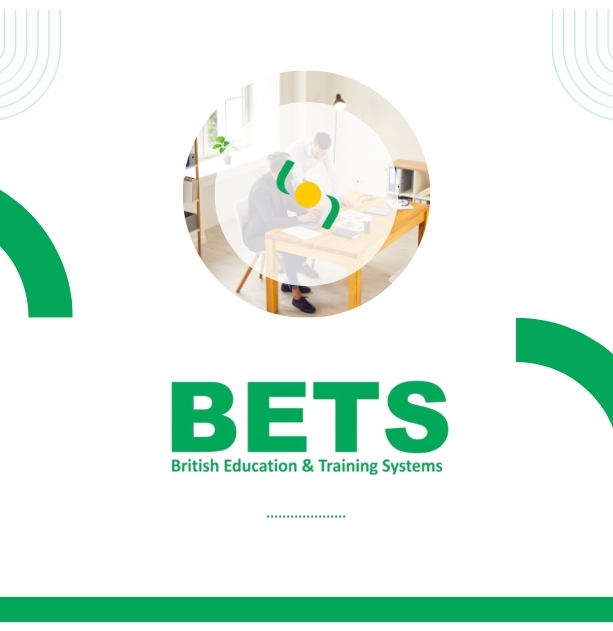
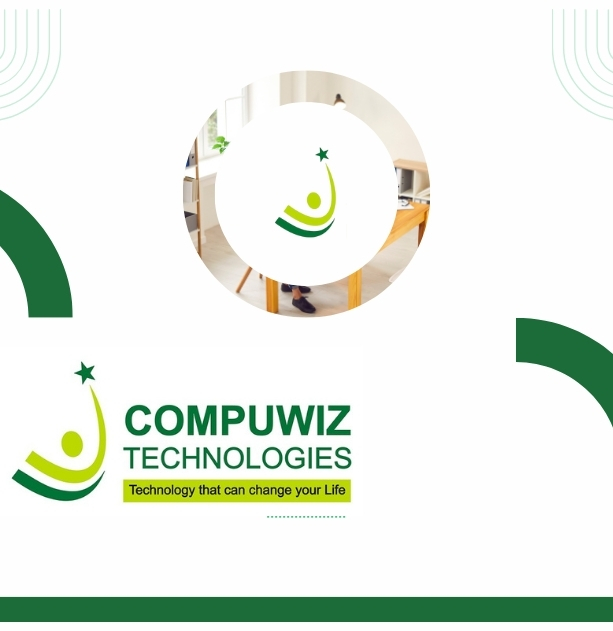
hero about and few sections updated

diff --git a/src/components/departments/DepartmentOne.jsx b/src/components/departments/DepartmentOne.jsx
@@ -1,4 +1,5 @@
 import React from "react";
+import { Code, Layout, Brain, Award } from "lucide-react";
 
 export const DepartmentOne = () => {
   return (
@@ -11,111 +12,73 @@ export const DepartmentOne = () => {
           data-wow-delay="0.2s"
         >
           <p className="td_section_subtitle_up td_fs_18 td_semibold td_spacing_1 td_mb_10 text-uppercase td_accent_color">
-            Departments
+            Our Programs
           </p>
           <h2 className="td_section_title td_fs_48 mb-0">
             Featured CWIZTECH Programs
           </h2>
           <p className="td_section_subtitle td_fs_18 mb-0">
-            Discover top-tier education and training programs at British Education & Training Systems, <br />
-            designed to enhance your skills and career prospects across the UK and beyond.
+            At CWIZTECH, we provide cutting-edge IT training programs designed to boost your skills, 
+            enhance your career, and keep you ahead in today’s digital world.
           </p>
         </div>
 
         <div className="td_height_50 td_height_lg_50" />
 
         <div className="td_iconbox_1_wrap">
-          {/* English Languages */}
+          {/* Software Development */}
           <div
-            className="td_iconbox td_style_1 text-center wow fadeInUp"
+            className=" text-center wow fadeInUp"
             data-wow-duration="1s"
             data-wow-delay="0.2s"
           >
-            <div className="td_iconbox_icon td_accent_color td_mb_10">
-              <svg width="100" height="100" viewBox="0 0 24 24" fill="none"
-                   xmlns="http://www.w3.org/2000/svg">
-                <path d="M4 4H20V6H4V4Z" fill="#28A745"/>
-                <path d="M4 10H20V12H4V10Z" fill="#28A745"/>
-                <path d="M4 16H14V18H4V16Z" fill="#28A745"/>
-                <path d="M17 14L21 18L17 22V14Z" fill="#28A745"/>
-              </svg>
+            <div className=" td_mb_10">
+              <Code size={100} color="#1c6c39" aria-label="Software Development icon" />
             </div>
             <h3 className="td_iconbox_title mb-0 td_medium td_fs_36">
-              English Languages
+              Software <br />Development
             </h3>
           </div>
 
-          {/* Business Studies */}
-         <div
-            className="td_iconbox td_style_1 text-center wow fadeInUp"
+          {/* UI/UX Design */}
+          <div
+            className=" text-center wow fadeInUp"
             data-wow-duration="1s"
             data-wow-delay="0.3s"
           >
-            <div className="td_iconbox_icon td_accent_color td_mb_10">
-              <svg
-                width="100"
-                height="100"
-                viewBox="0 0 100 100"
-                fill="none"
-                xmlns="http://www.w3.org/2000/svg"
-                role="img"
-                aria-label="Stocks icon"
-              >
-                <path
-                  d="M20 80H30V40H20V80ZM40 80H50V20H40V80ZM60 80H70V60H60V80ZM80 80H90V30H80V80Z"
-                  fill="#890C25"
-                />
-              </svg>
+            <div className=" td_mb_10">
+              <Layout size={100} color="#1c6c39" aria-label="UI/UX Design icon" />
             </div>
             <h3 className="td_iconbox_title mb-0 td_medium td_fs_36">
-              Business Studies
-              Business Studies
+              UI/UX <br />Design
             </h3>
           </div>
 
-          {/* Computer Science */}
+          {/* AI/ML Engineering */}
           <div
-            className="td_iconbox td_style_1 text-center wow fadeInUp"
+            className=" text-center wow fadeInUp"
             data-wow-duration="1s"
             data-wow-delay="0.4s"
           >
-            <div className="td_iconbox_icon td_accent_color td_mb_10">
-              <svg width="100" height="100" viewBox="0 0 24 24" fill="none"
-                   xmlns="http://www.w3.org/2000/svg">
-                <rect x="3" y="4" width="18" height="12" rx="2" fill="#28A745"/>
-                <path d="M8 20H16" stroke="#28A745" strokeWidth="2" strokeLinecap="round"/>
-                <path d="M12 16V20" stroke="#28A745" strokeWidth="2" strokeLinecap="round"/>
-              </svg>
+            <div className=" td_mb_10">
+              <Brain size={100} color="#1c6c39" aria-label="AI/ML Engineering icon" />
             </div>
             <h3 className="td_iconbox_title mb-0 td_medium td_fs_36">
-              Computer Science
+              AI/ML <br />Engineering
             </h3>
           </div>
 
-          {/* Scholarships and More */}
+          {/* IT Certifications */}
           <div
-            className="td_iconbox td_style_1 text-center wow fadeInUp"
+            className="text-center wow fadeInUp"
             data-wow-duration="1s"
             data-wow-delay="0.4s"
           >
-            <div className="td_iconbox_icon td_accent_color td_mb_10">
-              <svg
-                width="100"
-                height="100"
-                viewBox="0 0 100 100"
-                fill="none"
-                xmlns="http://www.w3.org/2000/svg"
-                role="img"
-                aria-label="Currency icon"
-              >
-                <path
-                  d="M20 60H80V80H20V60ZM30 40H70V60H30V40ZM40 20H60V40H40V20Z"
-                  fill="#890C25"
-                />
-              </svg>
+            <div className=" td_mb_10">
+              <Award size={100} color="#1c6c39" aria-label="IT Certifications icon" />
             </div>
             <h3 className="td_iconbox_title mb-0 td_medium td_fs_36">
-              Scholarships and More
+              IT <br />Certifications
             </h3>
           </div>
         </div>

diff --git a/src/components/about/AboutOne.jsx b/src/components/about/AboutOne.jsx
@@ -19,7 +19,7 @@ export const AboutOne = () => {
             >
               <div className="td_about_thumb_wrap">
                 <div className="td_about_year text-uppercase td_fs_64 td_bold text-green-700">
-                  EST 1996
+                  EST 2000
                 </div>
                 <div className="td_about_thumb_1">
                   <img src={aboutImg1} alt="About" />
@@ -60,28 +60,36 @@ export const AboutOne = () => {
               data-wow-delay="0.3s"
             >
               <div className="td_section_heading td_style_1 td_mb_30">
-                <p className="td_section_subtitle_up td_fs_18 td_semibold td_spacing_1 td_mb_10 text-uppercase text-green-700">
+                <p className="td_section_subtitle_up td_fs_20 td_bold td_spacing_1 td_mb_10 text-uppercase text-green-700">
                   About Us
                 </p>
                 <h2 className="td_section_title td_fs_48 mb-0 text-gray-800">
-                  High-Quality Education & Training
+                  Practical Tech Education & Training
                 </h2>
                 <p className="td_section_subtitle td_fs_18 mb-0 text-gray-600">
-                  At British Education & Training Systems (CWIZTECH), we are committed to providing high-quality educational programmes with professional training designed to meet the diverse needs of our students. With a focus on academic excellence and practical skills development, we offer a range of courses that empower individuals to achieve their career goals and personal growth.
+                  At Compuwiz Technologies (Cwiztech), we specialize in providing 
+                  high-quality training programs in IT, Software Development, UI/UX Design, 
+                  and emerging technologies. Our goal is to equip learners with practical 
+                  skills, hands-on experience, and industry-relevant knowledge to help them 
+                  excel in their careers.
                 </p>
               </div>
               <div className="td_mb_40">
                 <ul className="td_list td_style_5 td_mp_0">
                   <li>
-                    <h3 className="td_fs_24 td_mb_8 text-gray-800">Diverse Courses</h3>
+                    <h3 className="td_fs_24 td_mb_8 text-gray-800">Industry-Relevant Trainings</h3>
                     <p className="td_fs_18 mb-0 text-gray-600">
-                      We provide a wide range of programmes, from business and language courses to professional certification, ensuring our students meet the demands of the job market.
-                    </p>
+                       From beginner to advanced levels, our programs cover the latest tools 
+                        and technologies to prepare students for real-world projects and 
+                        professional growth.
+                      
+                      </p>
                   </li>
                   <li>
-                    <h3 className="td_fs_24 td_mb_8 text-gray-800">Flexible Learning</h3>
+                    <h3 className="td_fs_24 td_mb_8 text-gray-800">Flexible Learning Options</h3>
                     <p className="td_fs_18 mb-0 text-gray-600">
-                      Our part-time, evening, and online courses allow students to balance education with their busy lives.
+                      With in-person, evening, and online training, we make it easy for 
+                       learners to balance skill development with work and personal life.
                     </p>
                   </li>
                 </ul>

diff --git a/src/components/features/FeatureOne.jsx b/src/components/features/FeatureOne.jsx
@@ -27,10 +27,10 @@ export const FeatureOne = () => {
           >
             <div className="td_section_heading td_style_1">
               <p className="td_section_subtitle_up td_fs_18 td_semibold td_spacing_1 td_mb_10 text-uppercase td_accent_color">
-                CAMPUS
+                TRAININGS
               </p>
               <h2 className="td_section_title td_fs_48 mb-0">
-                Campus is your Dream Lifestyle
+                Trainings for your Dream Lifestyle
               </h2>
             </div>
 
@@ -70,11 +70,10 @@ export const FeatureOne = () => {
                 </div>
                 <div className="td_feature_info">
                   <h3 className="td_fs_32 td_semibold td_mb_15">
-                    Smart Hostel
+                    Your Gateway to Tech
                   </h3>
                   <p className="td_fs_14 td_heading_color td_opacity_7 mb-0">
-                    Behind the word mountains, far from the Conso there live the
-                    blind texts
+                    Learn from industry experts with practical, hands-on training in IT, Software Development, UI/UX, Cloud, AI, and more.
                   </p>
                 </div>
               </li>
@@ -130,11 +129,10 @@ export const FeatureOne = () => {
                 </div>
                 <div className="td_feature_info">
                   <h3 className="td_fs_32 td_semibold td_mb_15">
-                    Student Life
+                    Practical Learning
                   </h3>
                   <p className="td_fs_14 td_heading_color td_opacity_7 mb-0">
-                    Behind the word mountains, far from the Conso there live the
-                    blind texts
+                    Our training programs are designed to give you real-world experience, not just theory. Build projects, solve problems, and prepare for your career.
                   </p>
                 </div>
               </li>
@@ -163,11 +161,10 @@ export const FeatureOne = () => {
                 </div>
                 <div className="td_feature_info">
                   <h3 className="td_fs_32 td_semibold td_mb_15">
-                    Arts & Clubs
+                    Expert Instructors
                   </h3>
                   <p className="td_fs_14 td_heading_color td_opacity_7 mb-0">
-                    Behind the word mountains, far from the Conso there live the
-                    blind texts
+                    Learn directly from professionals who have real industry knowledge and are passionate about teaching.
                   </p>
                 </div>
               </li>
@@ -348,11 +345,10 @@ export const FeatureOne = () => {
                 </div>
                 <div className="td_feature_info">
                   <h3 className="td_fs_32 td_semibold td_mb_15">
-                    Sports & Fitness
+                    Career Growth
                   </h3>
                   <p className="td_fs_14 td_heading_color td_opacity_7 mb-0">
-                    Behind the word mountains, far from the Conso there live the
-                    blind texts
+                    Whether you’re a beginner or professional, our trainings help you upskill and stay ahead in the fast-paced tech world.
                   </p>
                 </div>
               </li>

diff --git a/src/components/campus/CampusOne.jsx b/src/components/campus/CampusOne.jsx
@@ -1,10 +1,10 @@
 import React from "react";
 import { Link } from "react-router-dom";
 
-import campusLife1 from "../../assets/img/home_1/campur_life_1.jpg";
-import campusLife2 from "../../assets/img/home_1/campur_life_2.jpg";
-import campusLife3 from "../../assets/img/home_1/campur_life_3.jpg";
-import campusLife4 from "../../assets/img/home_1/campur_life_4.jpg";
+import campusLife1 from "../../assets/img/home_1/campusimg1.png";
+import campusLife2 from "../../assets/img/home_1/campusimg2handson.png";
+import campusLife3 from "../../assets/img/home_1/campur_life_3.png";
+import campusLife4 from "../../assets/img/home_1/campur_life_4.png";
 
 export const CampusOne = () => {
   return (
@@ -61,7 +61,7 @@ export const CampusOne = () => {
                 Our Specialties
               </h2>
               <p className="td_section_subtitle td_fs_18 mb-0 text-white">
-                At British Education & Training Systems (CWIZTECH), we pride ourselves on delivering exceptional education tailored to diverse needs.
+               At CWIZTECH, we pride ourselves on delivering practical, industry-driven training designed to prepare learners for real-world success.
               </p>
             </div>
             <div className="td_btn_box">
@@ -99,7 +99,7 @@ export const CampusOne = () => {
                   className="td_btn td_style_1 td_radius_10 td_medium td_fs_18 bg-red-600 text-white hover:bg-red-700"
                 >
                   <span className="td_btn_in border border-white p-">
-                    <span>Explore Courses</span>
+                    <span>Explore Our Trainings</span>
                   </span>
                 </Link>
               </div>
@@ -122,7 +122,7 @@ export const CampusOne = () => {
                   </Link>
                   <div className="td_card_info">
                     <h2 className="td_card_title mb-0 td_fs_18 td_semibold text-white">
-                      <Link to="/course-details">Diverse Course Offerings</Link>
+                      <Link to="/course-details">Hands-On Learning</Link>
                     </h2>
                     <Link to="/course-details" className="td_card_btn">
                       <svg
@@ -319,7 +319,7 @@ export const CampusOne = () => {
                   </Link>
                   <div className="td_card_info">
                     <h2 className="td_card_title mb-0 td_fs_18 td_semibold text-white">
-                      <Link to="/course-details">Personalized Support</Link>
+                      <Link to="/course-details">Personalized Guidance</Link>
                     </h2>
                     <Link to="/course-details" className="td_card_btn">
                       <svg

diff --git a/src/components/hero/HeroOne.jsx b/src/components/hero/HeroOne.jsx
@@ -1,7 +1,7 @@
 import React from "react";
 import { Link } from "react-router-dom";
 
-import heroBg from "../../assets/img/home_1/hero_bg_1.jpg";
+import heroBg from "../../assets/img/home_1/herobg1.jpg";
 
 export const HeroOne = () => {
   return (
@@ -17,21 +17,23 @@ export const HeroOne = () => {
             data-wow-delay="0.35s"
           >
             <p className="td_hero_subtitle_up td_fs_18 td_white_color td_spacing_1 td_semibold text-uppercase td_mb_10 td_opacity_9">
-              Knowledge is Power
+              Empowering Tech Careers
             </p>
             <h1 className="td_hero_title td_fs_64 td_white_color td_mb_12">
-              <span>CWIZTECH</span> - The Best Place to Invest in your Knowledge
+              <span>CWIZTECH</span> <br /> Learn. Build. Grow.
             </h1>
-            <p className="td_hero_subtitle td_fs_18 td_white_color td_opacity_7 td_mb_30">
-              A CWIZTECH is a vibrant institution that serves as a hub for
-              higher education and research. It provides a dynamic environment.
+            <p className="td_hero_subtitle td_fs_18 td_white_color td_opacity_30 td_mb_30">
+              Compuwiz Technologies (Cwiztech) provides hands-on training in IT, 
+              Software Development, UI/UX Design, and emerging tech skills. 
+              Our goal is to equip you with practical knowledge to thrive in 
+              today’s digital world.
             </p>
             <Link
               to="/courses-grid-view"
               className="td_btn td_style_1 td_radius_10 td_medium"
             >
               <span className="td_btn_in td_white_color td_accent_bg">
-                <span>View Our Program</span>
+                <span>View Our Trainee programs</span>
                 <svg
                   width="19"
                   height="20"

diff --git a/src/assets/css/style.css b/src/assets/css/style.css
@@ -99,9 +99,9 @@
 ** All Variable
 ----------------------------------------------------------------*/
 :root {
-  --white-color: #fff;
-  --heading-color: #00001b;
-  --body-color: #555;
+  --white-color: #ffffff;
+  --heading-color: #1c6c39;
+  --body-color: #444444;
   --accent-color: #007A33;
   --gray-color: #f4f3ef;
   --border-color: #d9d9d9;
@@ -128,7 +128,7 @@
 }
 
 .td_theme_4 {
-  --accent-color: #006766;
+  --accent-color: #1c6c39;
 }
 
 .td_theme_5 {
@@ -9888,16 +9888,12 @@ html .ui-button.ui-state-disabled:active {
 .td_hero.td_style_1::before {
   content: "";
   position: absolute;
-  width: 600px;
-  height: 600px;
-  border-radius: 50%;
-  background: #00001b;
-  -webkit-filter: blur(250px);
-  filter: blur(250px);
-  left: 13%;
-  top: 50%;
-  -webkit-transform: translateY(-50%);
-  transform: translateY(-50%);
+  top: 0;
+  left: 0;
+  width: 100%;
+  height: 100%;
+  background-color: rgba(0, 0, 0, 0.5); /* Black overlay with adjustable opacity */
+  z-index: 1; /* Ensure overlay is above background but below content */
 }
 .td_hero.td_style_1 .container {
   position: relative;
